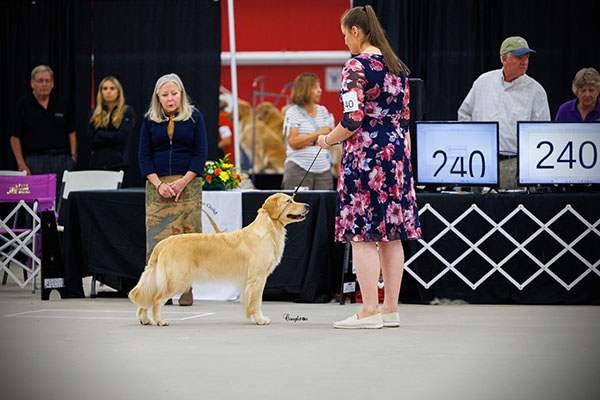
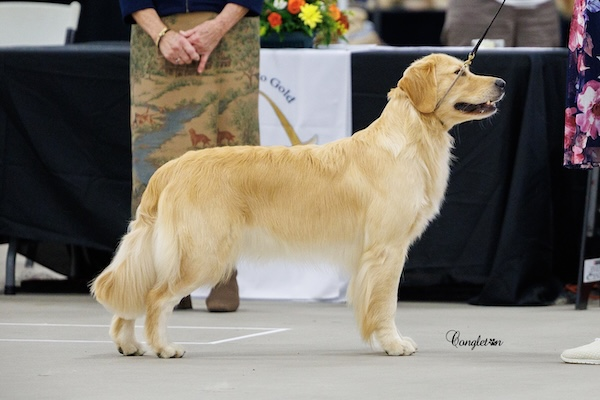
Image update

diff --git a/Puppies/Meet the Parents.html b/Puppies/Meet the Parents.html
@@ -159,7 +159,7 @@ body {
               <td width="162"><table width="600" border="0" align="center">
                 <tbody>
                   <tr>
-                    <td height="20" align="center"><p><span class="style1">Ch Crystal Glens Ice Cold Sunshine CD BN RAE OA OAJ NF BCAT TKI CDC FTN&quot;Savvy&quot;</span></p></td>
+                    <td height="20" align="center"><p><span class="style1">Ch Crystal Glens Ice Cold Sunshine CD BN RAE OA OAJ NF BCAT TKI CGC FTN&quot;Savvy&quot;</span></p></td>
                   </tr>
                 </tbody>
               </table></td>
@@ -250,7 +250,7 @@ body {
     <tr> </tr>
   </tbody>
 </table>
-<table width="900" align="center" background="/Webpage/Puppies/navbar-4.jpg">
+<table width="900" align="center" background="/Puppies/navbar-4.jpg">
   <tr>
     <td height="20" class="style110"><div align="center">Crystal Glen 2026 - all rights reserved</div></td>
   </tr>
